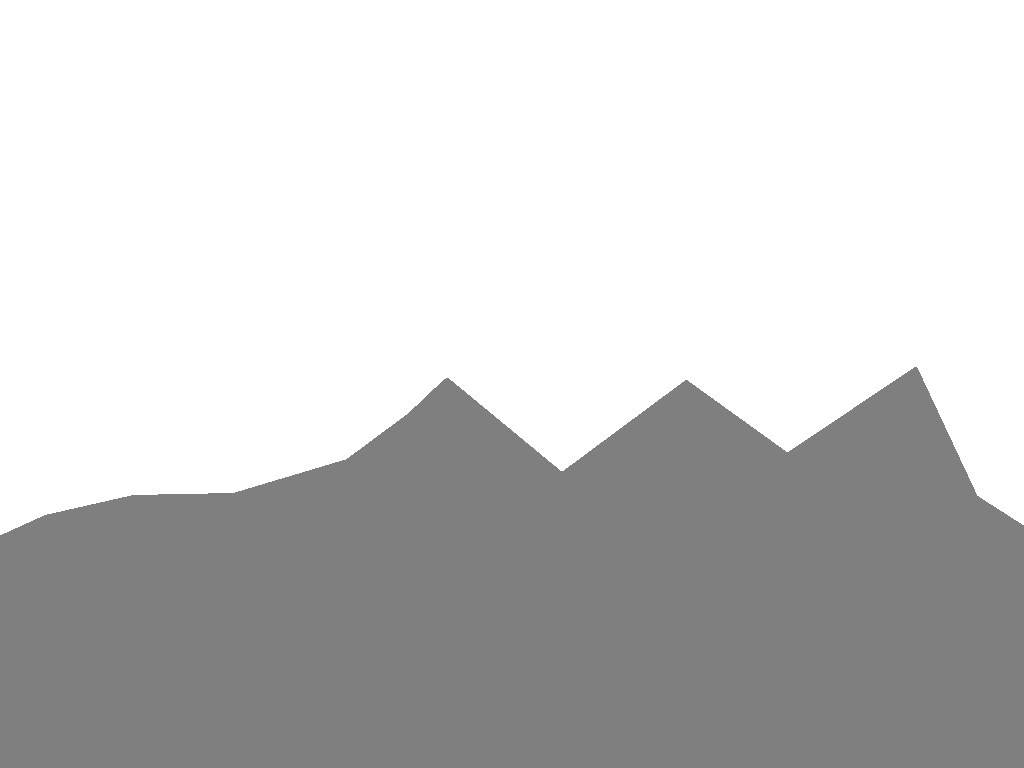
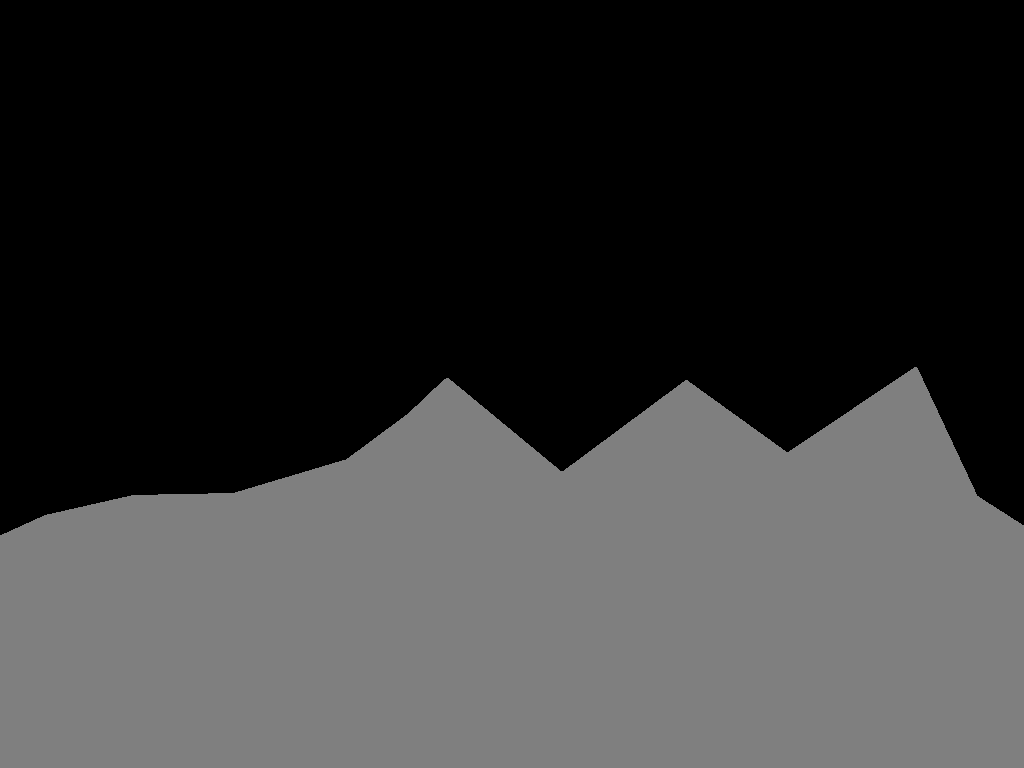
Add files via upload

diff --git a/main.py b/main.py
@@ -15,63 +15,113 @@ from math import *
 class Player(pygame.sprite.Sprite):
     def __init__(self):
         pygame.sprite.Sprite.__init__(self)
-        self.image = pygame.transform.scale(playerImage, (50,50))
+        self.image = pygame.transform.scale(playerImage, (64,64))
         self.image.set_colorkey(WHITE)
         self.rect = self.image.get_rect()
-        self.rect.center = (WIDTH/2, HEIGHT/2)
-        self.position = vector(WIDTH/2, HEIGHT/2)
+        self.rect.center = (WIDTH/2, HEIGHT/4)
+        self.position = vector(WIDTH/2, HEIGHT/4)
         self.velocity = vector(0,0)
         self.thrusting = False
         self.onGround = False
+        self.hitGround = False
+        self.damaged = False
         self.impactVelocity = 0
         self.rotation = 0
         self.acceleration = vector(0,GRAVITY)
-        self.thrust = vector(0,0)
-        self.acceleration = self.acceleration + self.thrust
-        self.thrustX = 0
-        self.thrustY = 0
+        self.thrust = 0
+        
+    def magnitudeVelocity(self):
+        self.velocityMag = sqrt(self.velocity.x**2 + self.velocity.y**2)
+        return self.velocityMag
+    
 
-    def rotate(self,speed):
-        self.rotation = (self.rotation + speed) % 360
-        print(self.rotation)
-        newImage = pygame.transform.rotate(self.image, self.rotation)
-        oldCenter = self.rect.center
-        self.image = newImage
-        self.rect = self.image.get_rect()
-        self.rect.center = oldCenter
-     
-    def rotateThrust(self):
-        self.thrustX = float(self.thrustX*cos(radians(self.rotation)) + self.thrustY*sin(radians(self.rotation)))
-        self.thrustY = float(-self.thrustX*sin(radians(self.rotation)) + self.thrustY*cos(radians(self.rotation)))
-        self.thrust = vector(self.thrustX,self.thrustY)
+
         
     def update(self):          
         
-        if self.onGround:
-            if self.impactVelocity > 50:
-                print("Crash")
-            elif self.impactVelocity > 20:
-                print("Minor injuries. Subtracted 100 points to repair.")
+        if self.hitGround:
+#            print("On Ground")
+            self.impactVelocity = self.magnitudeVelocity()
+            self.velocity = vector(0,0)
+#            print(self.impactVelocity)
+            if self.impactVelocity > 25:
+#                print("Crash")
+                self.damaged = True 
             elif self.impactVelocity > 0:
-                print("Landed. Takeoff again.")
+#                print("Landed. Takeoff again.")
+                pass
+            self.hitGround = False
+        else:
+            self.impactVelocity = 0
         
+    
+        if self.thrusting:
+            self.thrust = THRUST
+            self.image = pygame.transform.scale(thrustImage,(64,96))
+            self.image.set_colorkey(WHITE)
+#            print("Set thrust")
+        else:
+            self.thrust = 0
+            self.image = pygame.transform.scale(playerImage, (64,64))
+            self.image.set_colorkey(WHITE)
+#            print("Cut engine")
+    
+        keys = pygame.key.get_pressed()
+        if keys[pygame.K_LEFT]:
+            self.acceleration.x = -0.1
+        elif keys[pygame.K_RIGHT]:
+            self.acceleration.x = 0.1
         
-        print(self.thrust)
-        self.acceleration = vector(0 + self.thrust[0],GRAVITY + self.thrust[1])    
+        self.acceleration.y = GRAVITY-self.thrust
+                
+#        print(self.acceleration)
         self.velocity += self.acceleration
         self.position += self.velocity + 0.5 * self.acceleration
         self.rect.midbottom = self.position
         
+        
 class Ground(pygame.sprite.Sprite):
     def __init__(self):
         pygame.sprite.Sprite.__init__(self)
-        self.image = groundImage
-        self.image.set_colorkey(WHITE)
+        self.image = pygame.Surface((WIDTH,20))
+        self.image.fill(GRAY_75)
         self.rect = self.image.get_rect()
         self.rect.center = (WIDTH/2, HEIGHT-10)
-        
+    
+
+def drawText(text, size, color, x, y):
+    font = pygame.font.Font(fontName, size)
+    textSurface = font.render(text, True, color)
+    textRectangle = textSurface.get_rect()
+    textRectangle.midtop = (x, y)
+    screen.blit(textSurface, textRectangle)  
+
+def showStartScreen():
+    screen.fill(BLUE)
+    drawText(str("Space bar toggles thrust. Left and right steer."), 20, WHITE, WIDTH / 2, HEIGHT / 2 - 50)
+    drawText(str("Press any key to begin. Be ready to use thrust."), 20, WHITE, WIDTH / 2, HEIGHT / 2 + 50)
+    pygame.display.flip()
+    waitForKey()
+
+def showGameOverScreen():
+    screen.fill(BLUE)
+    drawText(str("You Crashed"), 48, WHITE, WIDTH/2, HEIGHT/2)
+    drawText(str("Press any key to end"), 20, WHITE, WIDTH/2, HEIGHT/2 + 50)
+    pygame.display.flip()
+    waitForKey()
+    return False
+    
+def waitForKey():
+    waiting = True
+    while waiting:
+        for event in pygame.event.get():
+            if event.type == pygame.QUIT:
+                waiting = False
+            if event.type == pygame.KEYUP:
+                waiting = False
 
     
+
 
 ## Initialize PyGame and make the empty window.
 
@@ -81,10 +131,12 @@ screen = pygame.display.set_mode((WIDTH,HEIGHT))
 pygame.display.set_caption("Lunar Lander")
 clock = pygame.time.Clock()
 
-directory = path.dirname(__file__)
+directory = path.dirname("__file__")
 imageDirectory = path.join(directory, "image")
 playerImage = pygame.image.load(path.join(imageDirectory, "lander.png")).convert()
-groundImage = pygame.image.load(path.join(imageDirectory, "ground.png")).convert()
+backgroundImage = pygame.image.load(path.join(imageDirectory, "background.png")).convert()
+backgroundRect = backgroundImage.get_rect()
+thrustImage = pygame.image.load(path.join(imageDirectory, "thrusting.png")).convert()
 
 allSprites = pygame.sprite.Group()
 
@@ -100,7 +152,9 @@ allSprites.add(ground)
 groundGroup = pygame.sprite.Group()
 groundGroup.add(ground)
 
+fontName = pygame.font.match_font(FONT_NAME)
 
+showStartScreen()
 
 ## Main game loop
 running = True
@@ -116,36 +170,37 @@ while running:
         if event.type == pygame.KEYDOWN:
             if event.key == pygame.K_SPACE:
                 player.thrusting = not player.thrusting
-                if player.thrusting:
-                    player.thrust = (0,-THRUST)
-                    print(player.thrust)
-            if event.key == pygame.K_LEFT:
-                player.rotate(ROTATION_SPEED)
-                player.thrust = player.rotateThrust()
-                print(player.thrust)
-            if event.key == pygame.K_RIGHT:
-                player.rotate(-ROTATION_SPEED)
-                player.thrust = player.rotateThrust()
-                print(player.thrust)
+
             
     ## Update
+#    print(player.position.y)
+    if player.damaged:
+        running = False
+        
+
+    
+    ## Check for ground contact
     hits = pygame.sprite.spritecollide(player, groundGroup, False)
     if hits:
+        player.hitGround = True
         player.onGround = True
-        player.impactVelocity = player.velocity.y
         player.position.y = hits[0].rect.top + 1
-        player.velocity.y = 0
+    
 
-        
-     
 
     allSprites.update()
     
     ## Render (draw)
     screen.fill(BLACK)
+    screen.blit(backgroundImage,backgroundRect)
     allSprites.draw(screen)
+
     
     ## Flip the display, so the user can see it.
     pygame.display.flip()
     
+
+if player.damaged:
+    showGameOverScreen()
+
 pygame.quit()

diff --git a/settings.py b/settings.py
@@ -10,14 +10,16 @@ WIDTH = 1024
 HEIGHT = 768
 FPS = 60
 
+FONT_NAME = 'Arial'
+
 ## Give some colours
 BLACK = (0,0,0)
 WHITE = (255,255,255)
 RED = (255,0,0)
 GREEN = (0,255,0)
 BLUE = (0,0,255)
+GRAY_75 = (64,64,64)
 
 ## Game settings
-GRAVITY = 1
-THRUST = 1.1
-ROTATION_SPEED = 10
+GRAVITY = 0.5
+THRUST = 0.6
